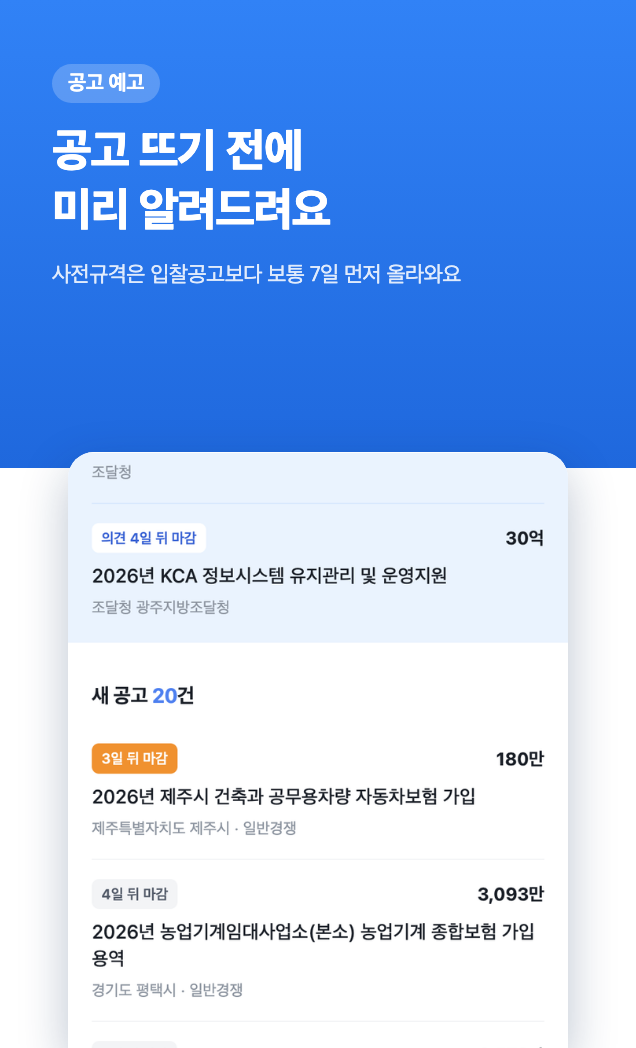
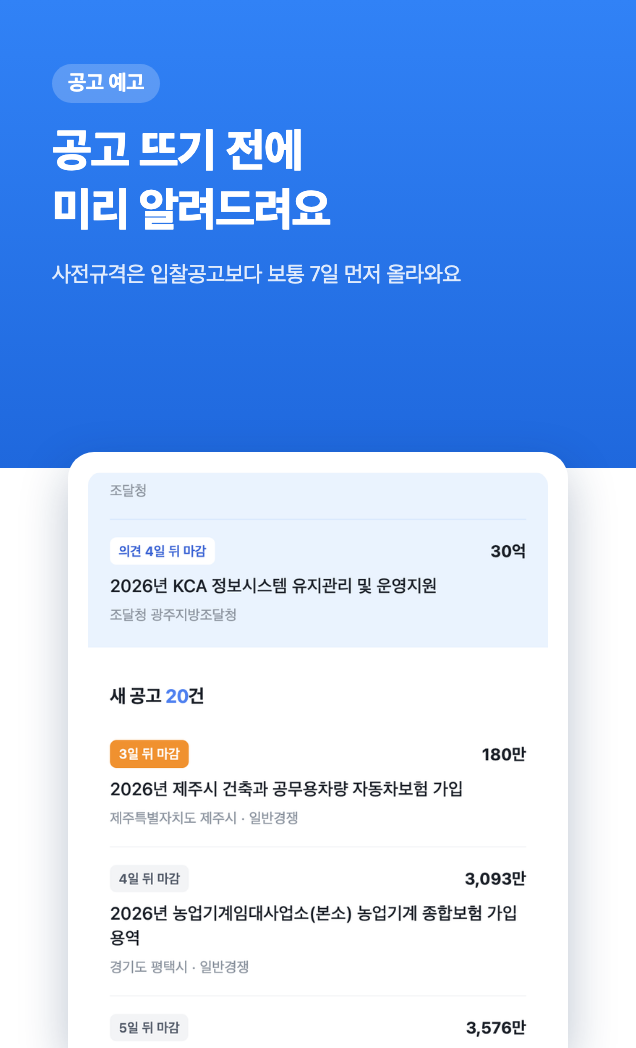
스크린샷을 2장으로 줄이고 캡처에 안쪽 여백을 준다
콘솔이 2장까지만 받는다. 왜 쓰는지(예고가 7일 먼저) + 어떻게 쓰는지
(분야만 고르면 끝) 둘로 좁혔다. 뺀 알림 장면은 원본 캡처에 조건 라벨이
"여행*숙박*음식*운송"으로 찍혀 있어 마케팅 이미지로 쓸 수 없었다.
캡처가 카드 모서리에 닿아 답답해서 안쪽 여백을 준다.

diff --git a/shotgen.py b/shotgen.py
@@ -4,7 +4,7 @@
 앱 화면을 날것으로 올리면 목록에서 읽히지 않는다. 검색 결과에 이미지가
 노출될 때 문구가 먼저 읽히도록, 캡처 위에 한 줄을 얹은 형태로 만든다.
 
-토스 규격: 세로 636×1048 PNG, 최소 3장.
+토스 규격: 세로 636×1048 PNG. 콘솔은 2장까지 받는다.
 의존성 0 — HTML을 쓰고 크롬 헤드리스로 렌더한다(PIL은 이 맥의 3.9에서 빌드가 안 된다).
 
 원본 캡처는 shots/raw/ 에 둔다. 앱 화면이 바뀌면 거기에 새로 캡처를 넣고
@@ -30,10 +30,13 @@ PANELS = [
     ("02-setup.png", "01-setup.png", "조건 등록",
      "분야만 고르면<br>끝이에요",
      "내 조건에 맞는 공고만 골라서 보여드려요"),
-    ("03-alert.png", "02-home.png", "알림",
-     "새 공고가 뜨면<br>알림으로",
-     "매일 아침 한 번. 마감 임박도 놓치지 않게"),
 ]
+
+# 3장을 만들었다가 2장으로 줄였다 — 콘솔이 2장까지만 받는다.
+# 뺀 것: ("03-alert.png", "02-home.png", "알림", "새 공고가 뜨면<br>알림으로",
+#         "매일 아침 한 번. 마감 임박도 놓치지 않게")
+# 원본 캡처(02-home)에 조건 라벨이 "여행*숙박*음식*운송"으로 찍혀 있다.
+# 새 캡처를 raw/에 넣으면 되살릴 수 있다.
 
 PAGE = """<!doctype html><html lang="ko"><head><meta charset="utf-8"><style>
   * {{ margin: 0; padding: 0; box-sizing: border-box; }}
@@ -62,7 +65,9 @@ PAGE = """<!doctype html><html lang="ko"><head><meta charset="utf-8"><style>
     border-radius: 26px 26px 0 0; overflow: hidden;
     background: #fff; box-shadow: 0 18px 48px rgba(16,42,86,.28);
   }}
-  .device img {{ width: 100%; display: block; }}
+  /* 캡처가 카드 모서리에 닿으면 답답하다. 안쪽에 여백을 준다 */
+  .device img {{ width: 100%; display: block; border-radius: 14px 14px 0 0; }}
+  .screen {{ padding: 20px 20px 0; }}
 </style></head><body>
   <div class="hero"></div>
   <div class="top">
@@ -70,7 +75,7 @@ PAGE = """<!doctype html><html lang="ko"><head><meta charset="utf-8"><style>
     <h1>{head}</h1>
     <p>{sub}</p>
   </div>
-  <div class="device"><img src="{img}"></div>
+  <div class="device"><div class="screen"><img src="{img}"></div></div>
 </body></html>"""
 
 
@@ -100,7 +105,7 @@ def main():
                         f"--screenshot={dst.resolve()}", page.as_uri()],
                        check=True, capture_output=True)
         print(f"  {dst}  {W}×{H}")
-    print("\n원본 캡처는 shots/raw/ 에 있어요. 콘솔엔 shots/0*.png 3장을 올려요.")
+    print("\n원본 캡처는 shots/raw/ 에 있어요. 콘솔엔 shots/0*.png 2장을 올려요.")
 
 
 if __name__ == "__main__":
